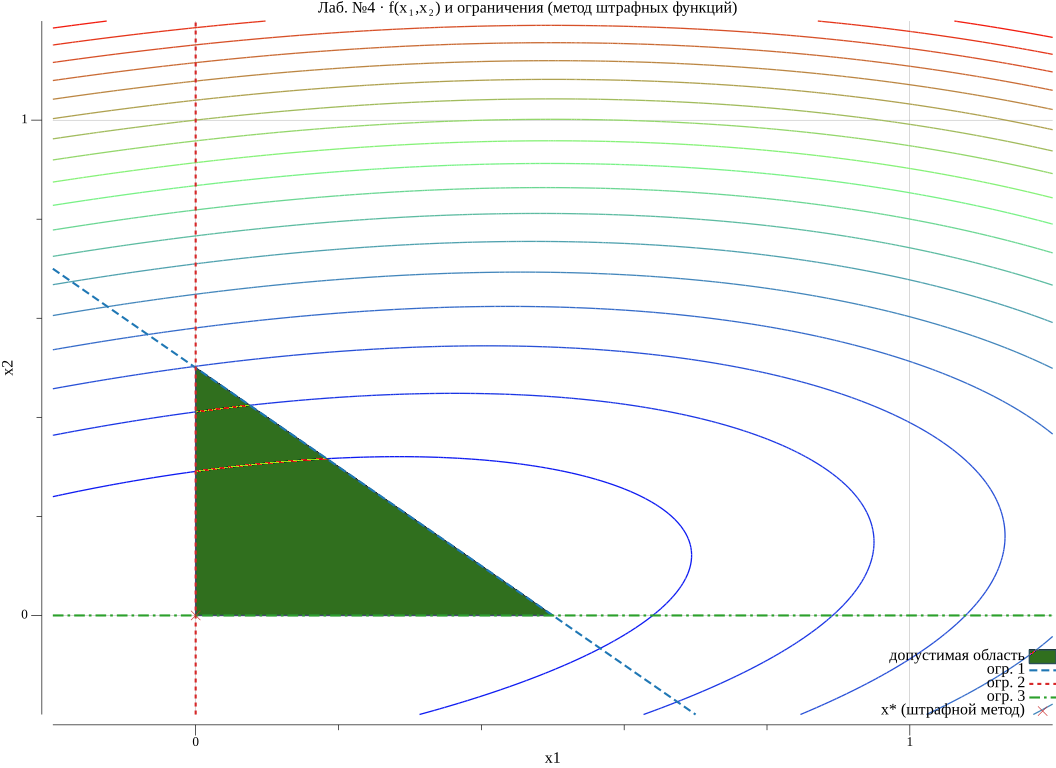
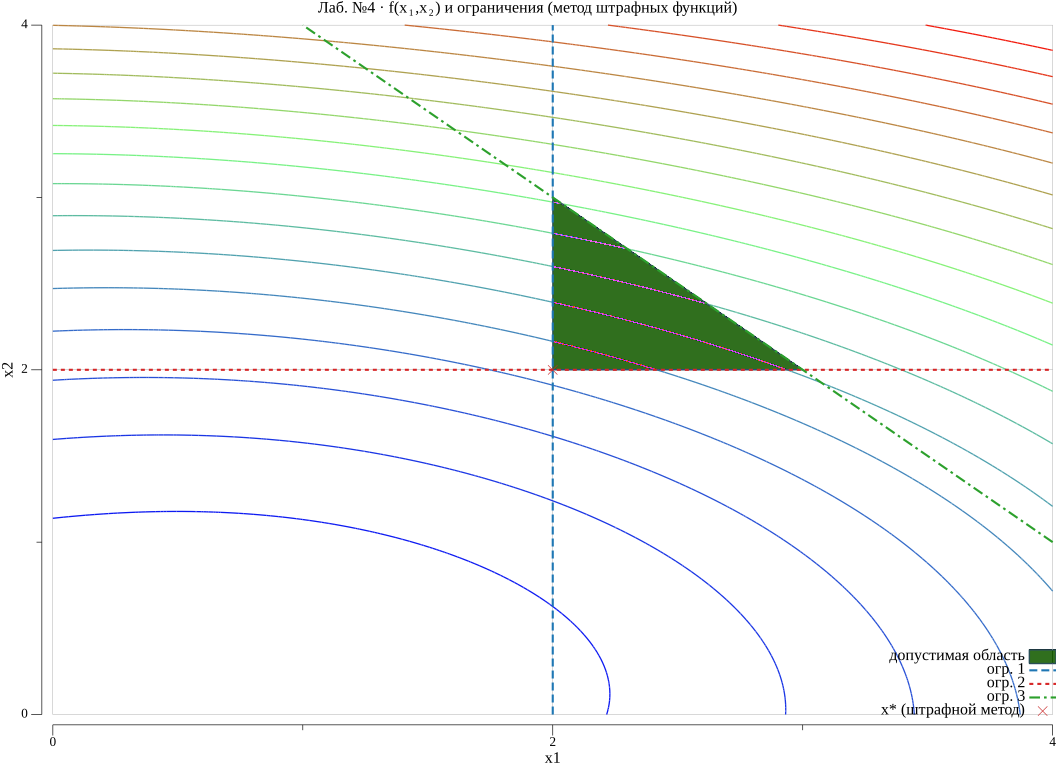
change restrictions penaulty

diff --git a/main.go b/main.go
@@ -117,17 +117,17 @@ func main() {
 	fmt.Println("Лабораторная работа №4. Условная минимизация методом штрафных функций")
 	fmt.Println("Целевая функция: f(x1,x2) = x1² + 3x2² + cos(x1+x2)")
 	fmt.Println("Ограничения:")
-	fmt.Println("  x1 + x2 - 0.5 <= 0")
-	fmt.Println("  x1 >= 0")
-	fmt.Println("  x2 >= 0")
+	fmt.Println("  x1 >= 2")
+	fmt.Println("  x2 >= 2")
+	fmt.Println("  x1 + x2 <= 5")
 	fmt.Printf("Начальная точка: x̄₀ = (%.1f; %.1f),  точность: %.0e\n\n", fn2.X01, fn2.X02, *eps)
 
 	penaltyA := [][]float64{
-		{1, 1},
 		{-1, 0},
 		{0, -1},
+		{1, 1},
 	}
-	penaltyB := []float64{0.5, 0, 0}
+	penaltyB := []float64{-2, -2, 5}
 	penaltySense := []ml.ConstraintSense{ml.SenseLE, ml.SenseLE, ml.SenseLE}
 
 	penaltyConstraints := make([]m2.Constraint2D, 0, len(penaltyA))
@@ -168,7 +168,7 @@ func main() {
 	errPenaltyPlot := plotter.PlotConstrainedContour(
 		"Лаб. №4 · f(x₁,x₂) и ограничения (метод штрафных функций)",
 		graphicsDir+"/lab4_penalty_contour.png",
-		-0.2, 1.2, -0.2, 1.2,
+		0.0, 4.0, 0.0, 4.0,
 		200, 20,
 		fn2.F2,
 		penaltyA,